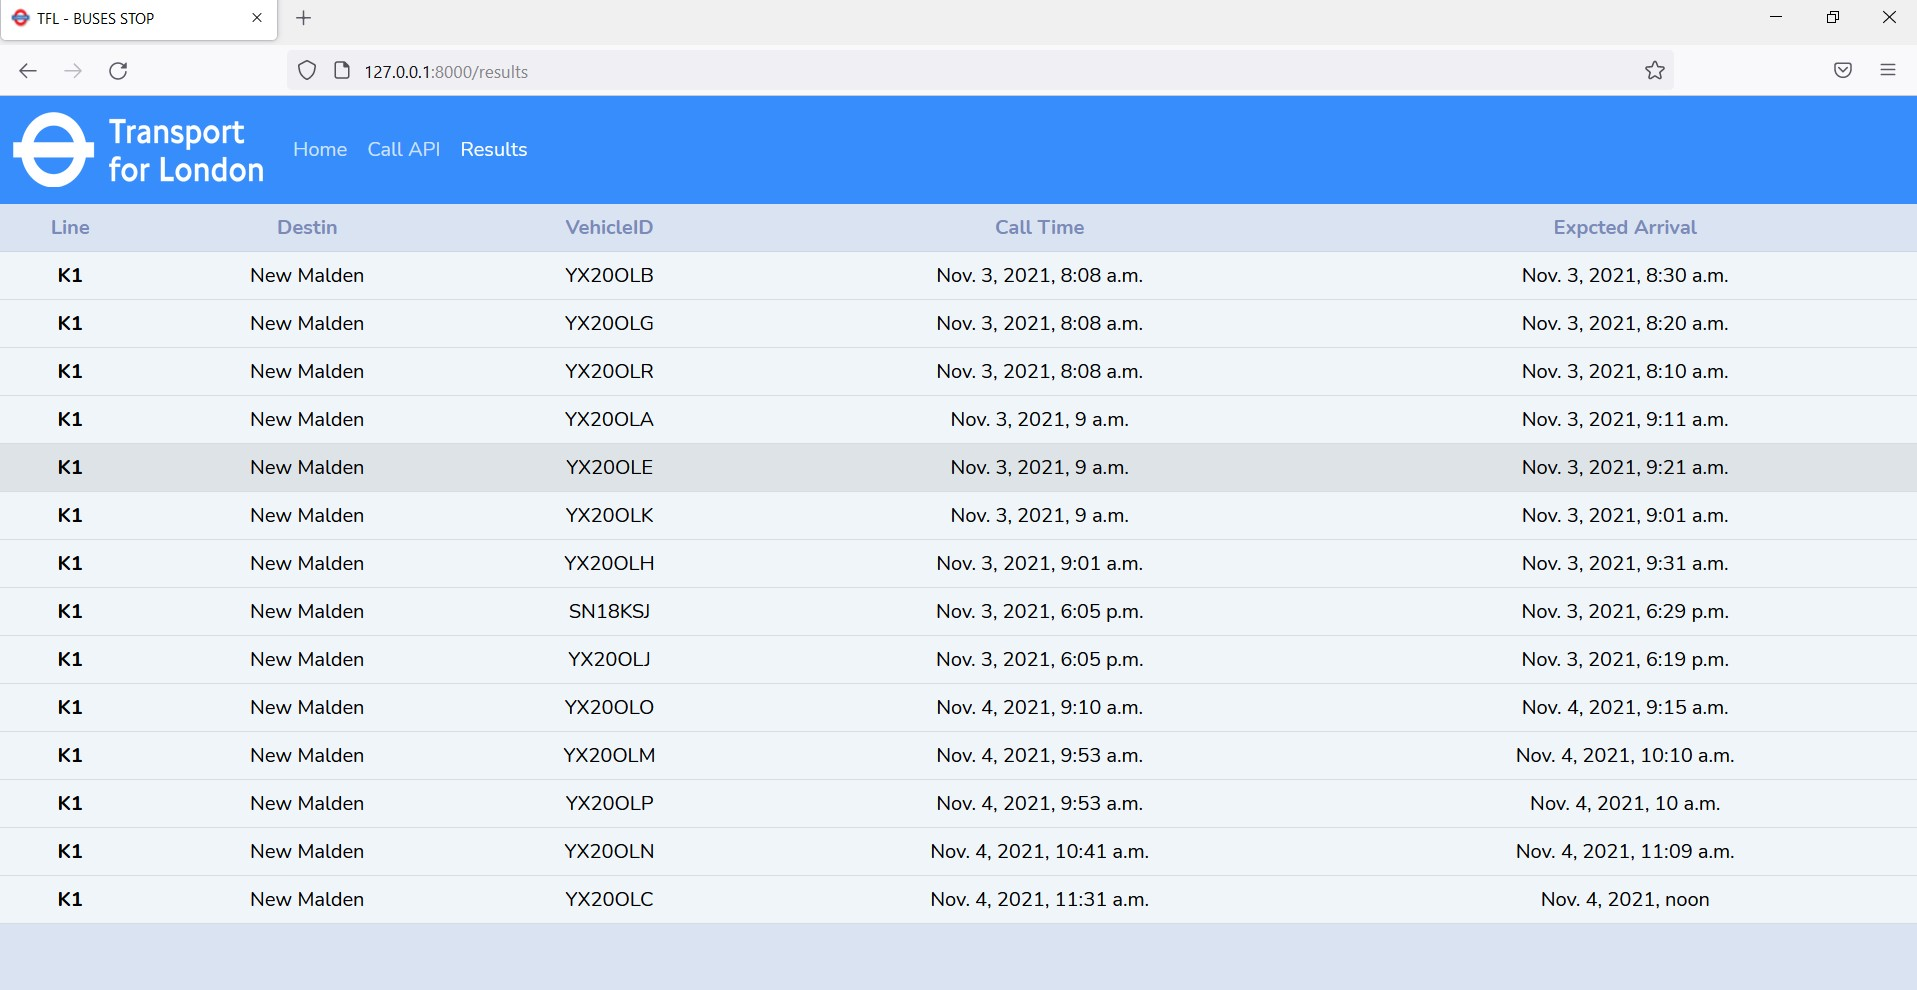
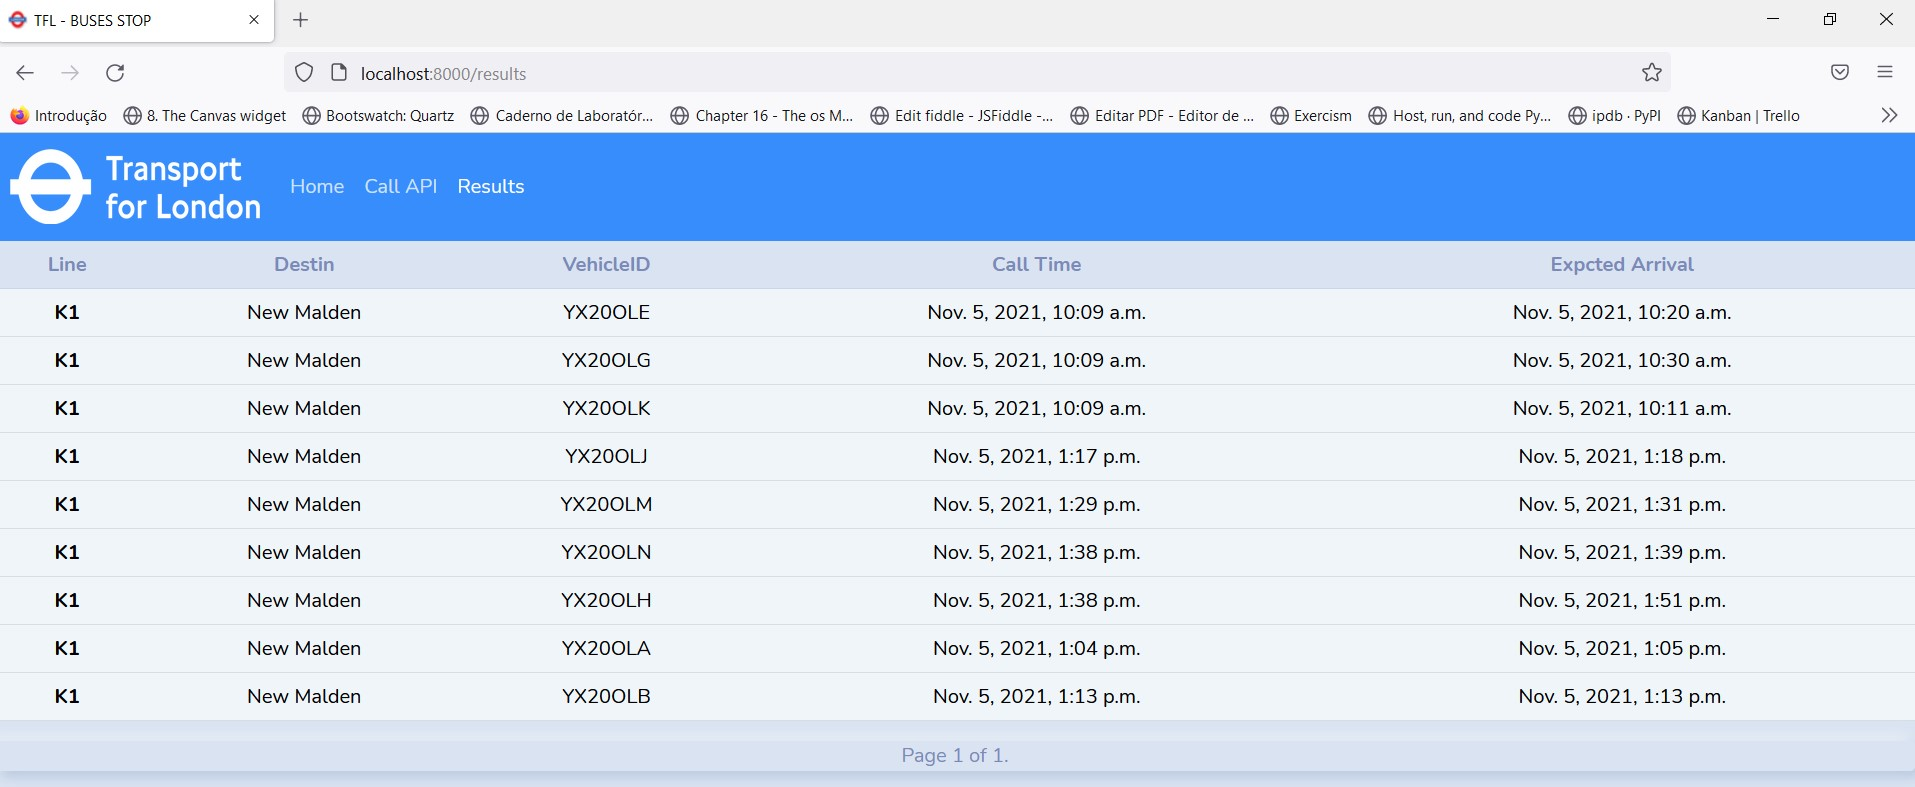
add paginator in results page

diff --git a/london/templates/results.html b/london/templates/results.html
@@ -46,7 +46,7 @@
     </tr>
   </thead>
   <!------------------------ iteration each saved data -------------------------------->
-{% for each in bus %}
+{% for each in buses.object_list %}
     <tbody>
     <tr class="table-light text-center">
 <th scope="row">{{ each.line_name }}</th>
@@ -58,5 +58,20 @@
 {% endfor %}
     </table>
   <!------------------------ end iteration each saved data -------------------------------->
+<div class="pagination">
+    <span class="step-links">
+        {% if buses.has_previous %}
+            <a href="?page={{ buses.previous_page_number }}">Previous</a>
+        {% endif %}
+
+        <span class="current">
+            Page {{ buses.number }} of {{ buses.paginator.num_pages }}.
+        </span>
+
+        {% if buses.has_next %}
+            <a href="?page={{ buses.next_page_number }}">Next</a>
+        {% endif %}
+    </span>
+</div>
 </body>
 </html>

diff --git a/london/views.py b/london/views.py
@@ -4,6 +4,7 @@ from django.http import HttpResponseNotFound
 from django.shortcuts import render
 from .models import Buses
 from .services import get_bus
+from django.core.paginator import Paginator, InvalidPage, EmptyPage
 
 
 # 'https://api.tfl.gov.uk/StopPoint/490014050A/arrivals' #Victoria, this is used to second check.
@@ -20,9 +21,8 @@ def index(request):
     refresh_count = round(float(refresh_count[6:-5]), 0) #capture seconds for page refresh
     hour = time.strptime(buses[0]['timestamp'][:-3], "%Y-%m-%dT%H:%M:%S.%f")  # Convert to timeformat
     formated_hour = time.strftime("%H:%M:%S", hour)  #get hour to show in index page
-
-    return render(request, 'index.html', {'buses': buses, 'time_now': formated_hour, 'refresh': refresh_count,
-                                          'station_name': buses[0]['stationName']})
+    return render(request, 'index.html', {'buses': buses, 'time_now': formated_hour,
+                                          'refresh': refresh_count, 'station_name': buses[0]['stationName']})
 
 
 def api(request):
@@ -35,8 +35,17 @@ def api(request):
 
 def results(request):
     """Function to get all saved data in DB and render the results page"""
-    buses = {'bus': list(Buses.objects.all())}
-    return render(request, 'results.html', buses)
+    buses = Buses.objects.all()
+    paginator = Paginator(buses, 10) #paginator for data in results page
+    try:
+        page = int(request.GET.get('page', '1'))
+    except ValueError:
+        page = 1
+    try:
+        bus = paginator.page(page)
+    except (EmptyPage, InvalidPage):
+        bus = paginator.page(paginator.num_pages)
+    return render(request, 'results.html', {'buses': bus})
 
 
 def create_bus(buses):

diff --git a/README.md b/README.md
@@ -27,6 +27,7 @@ e) Point your browser to the end point http://localhost:8000/api to see tfl api
 
 ![Alt text](index.jpg)
 ![Alt text](results.jpg)
+![Alt text](api.jpg)
 
 The database model
 ====================
